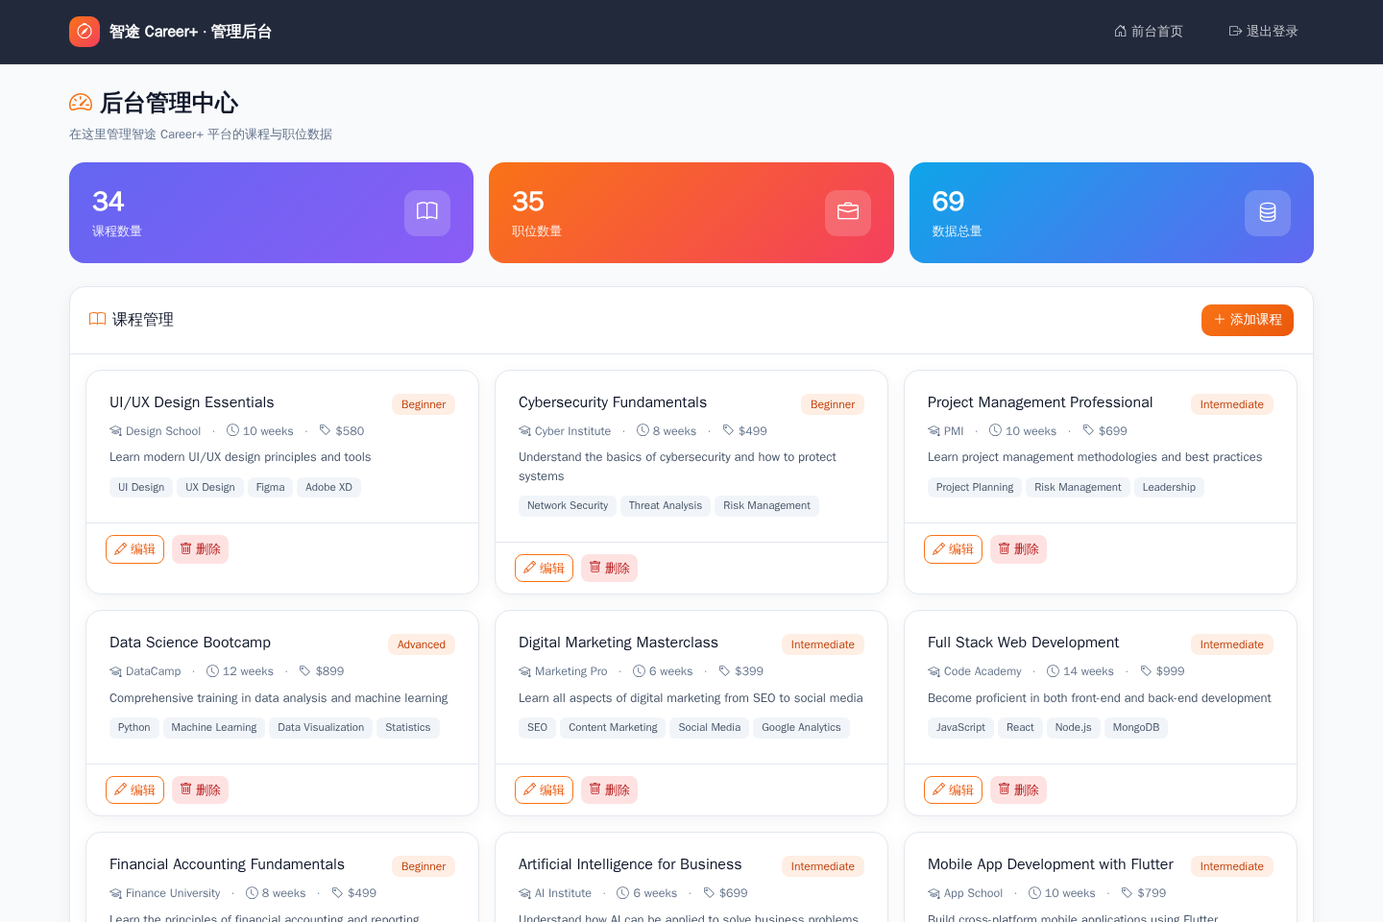
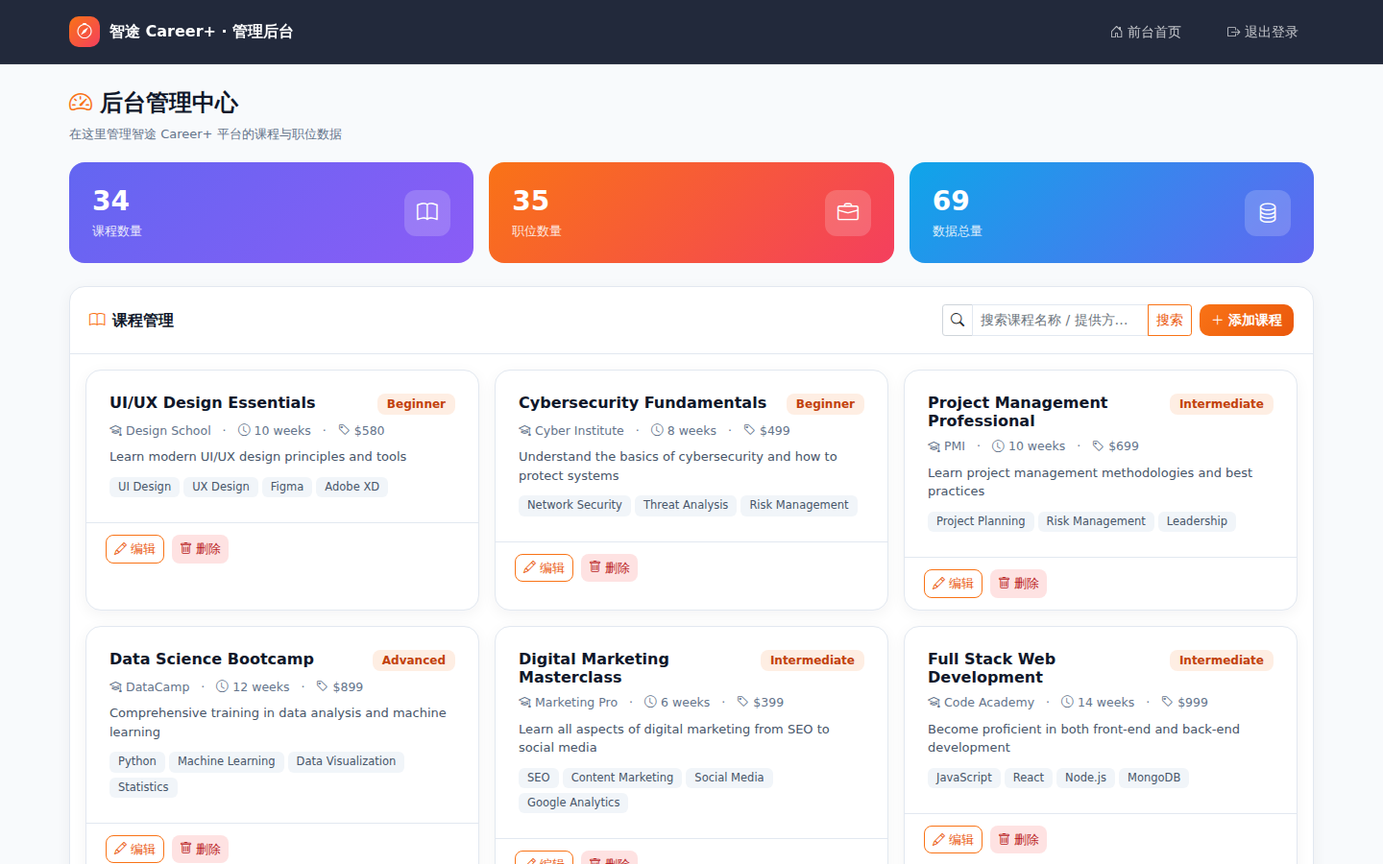
fix: persist user profile in browser sessions; add screenshots + regression test
- Fix hidden session bug: /api/me pre-seeds empty user_data via
  session.setdefault, so analyze_profile's in-place nested mutation never
  set Flask's session.modified -> profile silently lost in browser
  sessions (career_plan/generate returned 400). Fix: re-assign
  session['user_data'] to mark modified.
- Add regression test (test_profile_persists_in_session_after_api_me);
  full suite now 165 passed, 0 failed (record in docs/TEST_REPORT.md)
- README/README.zh-CN: refresh screenshots (login/dashboard/admin),
  add appendix with analysis/interview/plan screenshots, update test
  counts to 165
- gitignore runtime data/interviews.json + data/plans.json

diff --git a/tests/test_app.py b/tests/test_app.py
@@ -234,6 +234,25 @@ class TestAnalysisAndMatching:
         r = user_client.post('/analyze_profile', data={'education': '本科'})
         assert r.status_code == 400
 
+    def test_profile_persists_in_session_after_api_me(self, user_client):
+        """Regression: /api/me pre-seeds an empty user_data into the session;
+        analyze_profile must still persist the profile (re-assign session key so
+        Flask's modified flag is set). Previously the profile silently vanished
+        and /career_plan/generate returned 400 for browser sessions."""
+        # Page load calls /api/me before the user submits the profile form.
+        assert user_client.get('/api/me').status_code == 200
+        r = user_client.post('/analyze_profile', data=PROFILE_FORM)
+        assert r.status_code == 200
+        assert r.get_json()['success'] is True
+        # The profile must now be visible in the session (cookie round-trip).
+        me = user_client.get('/api/me').get_json()
+        assert me['profile'].get('major') == '计算机科学与技术'
+        assert me['profile'].get('education') == '本科'
+        # And downstream features that depend on the profile must work.
+        r2 = user_client.post('/career_plan/generate', data={'career_analysis': ''})
+        assert r2.status_code == 200
+        assert r2.get_json()['success'] is True
+
     def test_search_jobs_with_llm(self, app_client, llm_success):
         app_client.post('/login', json={'phone': '13900000000', 'password': 'user123'})
         r = app_client.post('/search_jobs', data={'keyword': '算法', 'location': ''})

diff --git a/app.py b/app.py
@@ -390,6 +390,10 @@ def analyze_profile():
         profile = current_user_data()
         for field in FORM_FIELDS:
             profile[field] = request.form.get(field, '').strip()
+        # Re-assign to mark the session modified: mutating the nested dict in
+        # place does NOT set Flask's session.modified, so the profile would
+        # never be persisted when user_data was pre-seeded (e.g. by /api/me).
+        session['user_data'] = profile
 
         if not all(profile.get(f) for f in FORM_FIELDS):
             return jsonify({'success': False, 'error': '请完整填写所有个人信息字段'}), 400

diff --git a/docs/TEST_REPORT.md b/docs/TEST_REPORT.md
@@ -15,19 +15,20 @@
 
 | 指标 | 数值 |
 |------|------|
-| 测试用例总数 | **164** |
-| 通过 | **164** |
+| 测试用例总数 | **165** |
+| 通过 | **165** |
 | 失败 | **0** |
 | 错误 | **0** |
 | 跳过 | **0** |
-| 执行时间 | 35.8s |
+| 执行时间 | 69.8s |
 
-## 新增测试明细（本轮新增 36 个用例）
+## 本轮新增测试（相对上一版 128 个基线，共 +37）
 
 | 测试文件 | 数量 | 覆盖内容 |
 |---------|------|---------|
 | `tests/test_mock_interview.py` | 22 | 鉴权、LLM 出题、fallback 出题、题目数量校验与钳制（3-8）、会话持久化、LLM 评分、fallback 评分、空回答/无效会话/无效题号、完整面试总结（平均分/评语/亮点）、完成后拒绝重复作答、历史列表/删除/上限/用户隔离、汇总助手函数 |
 | `tests/test_career_plan.py` | 14 | 鉴权、LLM 生成 5 年三阶段路线图、fallback 生成、无个人信息拒绝、带职业分析生成、latest 查询、历史列表/删除/上限/用户隔离、fallback 引擎未知/已知方向 |
+| `tests/test_app.py`（回归） | 1 | **会话持久化回归**：`/api/me` 预置空 user_data 后，analyze_profile 仍必须持久化 profile（此前该隐藏 bug 导致浏览器会话资料丢失、`/career_plan/generate` 返回 400） |
 
 ## 新增功能（API）
 
@@ -36,7 +37,15 @@
 | AI 模拟面试 | `POST /mock_interview/start` · `POST /mock_interview/answer` · `GET /mock_interview/session` · `GET/DELETE /api/interviews[/<id>]` |
 | 长期职业生涯规划 | `POST /career_plan/generate` · `GET /career_plan/latest` · `GET/DELETE /api/plans[/<id>]` |
 
-## 完整执行记录（pytest -v，164 passed）
+## 修复的隐藏 Bug
+
+`/api/me` 调用 `current_user_data()` 时会通过 `session.setdefault('user_data', {})` 把空 `user_data`
+预写入会话；随后 `analyze_profile` 对嵌套 dict 的就地修改**不会触发 Flask 的 `session.modified`**，
+导致个人资料在浏览器会话中从未真正持久化（curl 直接调用 analyze 不经过 /api/me 故无法复现）。
+修复：analyze_profile 保存后重新赋值 `session['user_data'] = profile` 显式标记 modified。
+（2026-08-12 截图排查时发现并修复，新增回归测试覆盖。）
+
+## 完整执行记录（pytest -v，165 passed）
 
 ```text
 ============================= test session starts ==============================
@@ -46,7 +55,7 @@ rootdir: /home/ubuntu/.openclaw/workspace/noah-space/ZhituCareer
 configfile: pytest.ini
 testpaths: tests
 plugins: anyio-4.14.2
-collecting ... collected 164 items
+collecting ... collected 165 items
 
 tests/test_app.py::TestHealthAndAuth::test_health PASSED                 [  0%]
 tests/test_app.py::TestHealthAndAuth::test_root_redirects_to_login PASSED [  1%]
@@ -70,12 +79,12 @@ tests/test_app.py::TestAdminCourses::test_search PASSED                  [ 11%]
 tests/test_app.py::TestAdminCourses::test_search_no_match PASSED         [ 12%]
 tests/test_app.py::TestAdminCourses::test_invalid_page_defaults PASSED   [ 12%]
 tests/test_app.py::TestAdminCourses::test_add_item PASSED                [ 13%]
-tests/test_app.py::TestAdminCourses::test_update_item PASSED             [ 14%]
+tests/test_app.py::TestAdminCourses::test_update_item PASSED             [ 13%]
 tests/test_app.py::TestAdminCourses::test_delete_item PASSED             [ 14%]
 tests/test_app.py::TestAdminCourses::test_delete_missing_returns_404 PASSED [ 15%]
 tests/test_app.py::TestAdminCourses::test_delete_missing_id PASSED       [ 15%]
 tests/test_app.py::TestAdminCourses::test_post_invalid_payload PASSED    [ 16%]
-tests/test_app.py::TestAdminCourses::test_post_invalid_record PASSED     [ 17%]
+tests/test_app.py::TestAdminCourses::test_post_invalid_record PASSED     [ 16%]
 tests/test_app.py::TestAdminCourses::test_post_valid_normalizes PASSED   [ 17%]
 tests/test_app.py::TestAdminCourses::test_whole_replace PASSED           [ 18%]
 tests/test_app.py::TestAdminJobs::test_list PASSED                       [ 18%]
@@ -84,88 +93,89 @@ tests/test_app.py::TestAdminJobs::test_non_admin_forbidden PASSED        [ 20%]
 tests/test_app.py::TestAnalysisAndMatching::test_analyze_with_llm PASSED [ 20%]
 tests/test_app.py::TestAnalysisAndMatching::test_analyze_falls_back PASSED [ 21%]
 tests/test_app.py::TestAnalysisAndMatching::test_analyze_missing_fields PASSED [ 21%]
-tests/test_app.py::TestAnalysisAndMatching::test_search_jobs_with_llm PASSED [ 22%]
+tests/test_app.py::TestAnalysisAndMatching::test_profile_persists_in_session_after_api_me PASSED [ 22%]
+tests/test_app.py::TestAnalysisAndMatching::test_search_jobs_with_llm PASSED [ 23%]
 tests/test_app.py::TestAnalysisAndMatching::test_search_jobs_fallback PASSED [ 23%]
-tests/test_app.py::TestAnalysisAndMatching::test_search_course_with_llm PASSED [ 23%]
+tests/test_app.py::TestAnalysisAndMatching::test_search_course_with_llm PASSED [ 24%]
 tests/test_app.py::TestAnalysisAndMatching::test_search_course_fallback PASSED [ 24%]
 tests/test_app.py::TestErrors::test_api_404 PASSED                       [ 25%]
-tests/test_app.py::TestErrors::test_page_404_redirects PASSED            [ 25%]
+tests/test_app.py::TestErrors::test_page_404_redirects PASSED            [ 26%]
 tests/test_app.py::TestErrors::test_me_returns_profile PASSED            [ 26%]
-tests/test_app.py::TestErrors::test_session_persists PASSED              [ 26%]
+tests/test_app.py::TestErrors::test_session_persists PASSED              [ 27%]
 tests/test_app.py::TestJsonBodySafety::test_invalid_json_body PASSED     [ 27%]
 tests/test_app.py::TestJsonBodySafety::test_form_body_on_json_endpoint PASSED [ 28%]
-tests/test_app.py::TestStatsOverview::test_stats_require_auth PASSED     [ 28%]
+tests/test_app.py::TestStatsOverview::test_stats_require_auth PASSED     [ 29%]
 tests/test_app.py::TestStatsOverview::test_stats_overview_shape PASSED   [ 29%]
-tests/test_app.py::TestStatsOverview::test_stats_salary_bucketing PASSED [ 29%]
+tests/test_app.py::TestStatsOverview::test_stats_salary_bucketing PASSED [ 30%]
 tests/test_app.py::TestAnalysisHistory::test_analyze_saves_history PASSED [ 30%]
 tests/test_app.py::TestAnalysisHistory::test_history_reversed_order PASSED [ 31%]
-tests/test_app.py::TestAnalysisHistory::test_history_delete PASSED       [ 31%]
+tests/test_app.py::TestAnalysisHistory::test_history_delete PASSED       [ 32%]
 tests/test_app.py::TestAnalysisHistory::test_history_capped PASSED       [ 32%]
-tests/test_app.py::TestAnalysisHistory::test_history_requires_auth PASSED [ 32%]
+tests/test_app.py::TestAnalysisHistory::test_history_requires_auth PASSED [ 33%]
 tests/test_cache.py::test_set_get PASSED                                 [ 33%]
 tests/test_cache.py::test_missing_key PASSED                             [ 34%]
-tests/test_cache.py::test_expiry PASSED                                  [ 34%]
+tests/test_cache.py::test_expiry PASSED                                  [ 35%]
 tests/test_cache.py::test_per_item_ttl PASSED                            [ 35%]
-tests/test_cache.py::test_maxsize_eviction PASSED                        [ 35%]
+tests/test_cache.py::test_maxsize_eviction PASSED                        [ 36%]
 tests/test_cache.py::test_clear PASSED                                   [ 36%]
 tests/test_cache.py::test_falsy_value_kept PASSED                        [ 37%]
-tests/test_career_plan.py::TestPlanAuth::test_generate_requires_auth PASSED [ 37%]
+tests/test_career_plan.py::TestPlanAuth::test_generate_requires_auth PASSED [ 38%]
 tests/test_career_plan.py::TestPlanAuth::test_latest_requires_auth PASSED [ 38%]
 tests/test_career_plan.py::TestPlanAuth::test_history_requires_auth PASSED [ 39%]
-tests/test_career_plan.py::TestPlanGenerate::test_generate_llm PASSED    [ 39%]
+tests/test_career_plan.py::TestPlanGenerate::test_generate_llm PASSED    [ 40%]
 tests/test_career_plan.py::TestPlanGenerate::test_generate_fallback PASSED [ 40%]
-tests/test_career_plan.py::TestPlanGenerate::test_generate_without_profile_rejected PASSED [ 40%]
+tests/test_career_plan.py::TestPlanGenerate::test_generate_without_profile_rejected PASSED [ 41%]
 tests/test_career_plan.py::TestPlanGenerate::test_generate_with_analysis_text PASSED [ 41%]
 tests/test_career_plan.py::TestPlanGenerate::test_generate_saves_and_latest PASSED [ 42%]
-tests/test_career_plan.py::TestPlanGenerate::test_latest_empty PASSED    [ 42%]
+tests/test_career_plan.py::TestPlanGenerate::test_latest_empty PASSED    [ 43%]
 tests/test_career_plan.py::TestPlanHistory::test_list_and_delete PASSED  [ 43%]
-tests/test_career_plan.py::TestPlanHistory::test_history_capped PASSED   [ 43%]
+tests/test_career_plan.py::TestPlanHistory::test_history_capped PASSED   [ 44%]
 tests/test_career_plan.py::TestPlanHistory::test_history_user_isolation PASSED [ 44%]
 tests/test_career_plan.py::TestPlanFallbackEngine::test_unknown_profile_gets_generic_plan PASSED [ 45%]
-tests/test_career_plan.py::TestPlanFallbackEngine::test_domain_profile_gets_matched_plan PASSED [ 45%]
+tests/test_career_plan.py::TestPlanFallbackEngine::test_domain_profile_gets_matched_plan PASSED [ 46%]
 tests/test_data_store.py::TestLoad::test_missing_returns_default PASSED  [ 46%]
-tests/test_data_store.py::TestLoad::test_roundtrip PASSED                [ 46%]
+tests/test_data_store.py::TestLoad::test_roundtrip PASSED                [ 47%]
 tests/test_data_store.py::TestLoad::test_corrupt_returns_default PASSED  [ 47%]
 tests/test_data_store.py::TestLoad::test_empty_file_returns_default PASSED [ 48%]
-tests/test_data_store.py::TestAtomicity::test_no_partial_writes_on_failure PASSED [ 48%]
+tests/test_data_store.py::TestAtomicity::test_no_partial_writes_on_failure PASSED [ 49%]
 tests/test_data_store.py::TestAtomicity::test_concurrent_saves_never_corrupt PASSED [ 49%]
 tests/test_data_store.py::TestValidation::test_valid_course PASSED       [ 50%]
 tests/test_data_store.py::TestValidation::test_valid_job PASSED          [ 50%]
 tests/test_data_store.py::TestValidation::test_missing_required PASSED   [ 51%]
-tests/test_data_store.py::TestValidation::test_blank_required PASSED     [ 51%]
+tests/test_data_store.py::TestValidation::test_blank_required PASSED     [ 52%]
 tests/test_data_store.py::TestValidation::test_wrong_type PASSED         [ 52%]
 tests/test_data_store.py::TestValidation::test_non_dict_item PASSED      [ 53%]
 tests/test_data_store.py::TestValidation::test_not_a_list PASSED         [ 53%]
 tests/test_data_store.py::TestValidation::test_too_many_items PASSED     [ 54%]
-tests/test_data_store.py::TestValidation::test_wrong_list_element_type PASSED [ 54%]
+tests/test_data_store.py::TestValidation::test_wrong_list_element_type PASSED [ 55%]
 tests/test_data_store.py::TestNormalize::test_strips_unknown_fields PASSED [ 55%]
 tests/test_data_store.py::TestNormalize::test_coerces_strings_and_int_list_items PASSED [ 56%]
 tests/test_data_store.py::TestNormalize::test_drops_broken_records PASSED [ 56%]
 tests/test_data_store.py::TestNormalize::test_truncates_long_fields PASSED [ 57%]
-tests/test_fallback.py::TestCareerFallback::test_detects_ai_domain PASSED [ 57%]
+tests/test_fallback.py::TestCareerFallback::test_detects_ai_domain PASSED [ 58%]
 tests/test_fallback.py::TestCareerFallback::test_unknown_profile_returns_default PASSED [ 58%]
 tests/test_fallback.py::TestCareerFallback::test_result_shape PASSED     [ 59%]
-tests/test_fallback.py::TestCareerFallback::test_all_missing_fields_no_crash PASSED [ 59%]
+tests/test_fallback.py::TestCareerFallback::test_all_missing_fields_no_crash PASSED [ 60%]
 tests/test_fallback.py::TestJobFallback::test_keyword_and_location PASSED [ 60%]
-tests/test_fallback.py::TestJobFallback::test_skill_overlap_ranks_higher PASSED [ 60%]
+tests/test_fallback.py::TestJobFallback::test_skill_overlap_ranks_higher PASSED [ 61%]
 tests/test_fallback.py::TestJobFallback::test_empty_input_returns_empty PASSED [ 61%]
 tests/test_fallback.py::TestJobFallback::test_deterministic PASSED       [ 62%]
-tests/test_fallback.py::TestCourseFallback::test_chinese_keyword_matches_english_catalog PASSED [ 62%]
+tests/test_fallback.py::TestCourseFallback::test_chinese_keyword_matches_english_catalog PASSED [ 63%]
 tests/test_fallback.py::TestCourseFallback::test_career_analysis_boost PASSED [ 63%]
 tests/test_fallback.py::TestCourseFallback::test_empty_results PASSED    [ 64%]
 tests/test_fallback.py::TestCourseFallback::test_deterministic PASSED    [ 64%]
 tests/test_large_data.py::TestLargeJobMatching::test_fallback_fast_and_accurate PASSED [ 65%]
-tests/test_large_data.py::TestLargeJobMatching::test_llm_only_sees_bounded_candidates PASSED [ 65%]
+tests/test_large_data.py::TestLargeJobMatching::test_llm_only_sees_bounded_candidates PASSED [ 66%]
 tests/test_large_data.py::TestLargeCourseMatching::test_fallback_fast_and_accurate PASSED [ 66%]
 tests/test_large_data.py::TestLargeCourseMatching::test_llm_only_sees_bounded_candidates PASSED [ 67%]
 tests/test_large_data.py::TestRetrievalIndexScale::test_index_time_for_5000_jobs PASSED [ 67%]
 tests/test_llm_client.py::TestStripCodeFence::test_plain PASSED          [ 68%]
-tests/test_llm_client.py::TestStripCodeFence::test_json_fence PASSED     [ 68%]
+tests/test_llm_client.py::TestStripCodeFence::test_json_fence PASSED     [ 69%]
 tests/test_llm_client.py::TestStripCodeFence::test_generic_fence PASSED  [ 69%]
 tests/test_llm_client.py::TestStripCodeFence::test_fence_with_prose PASSED [ 70%]
 tests/test_llm_client.py::TestExtractJson::test_prose_wrapped PASSED     [ 70%]
 tests/test_llm_client.py::TestExtractJson::test_array_wrapped PASSED     [ 71%]
-tests/test_llm_client.py::TestExtractJson::test_nested_braces PASSED     [ 71%]
+tests/test_llm_client.py::TestExtractJson::test_nested_braces PASSED     [ 72%]
 tests/test_llm_client.py::TestExtractJson::test_string_containing_braces PASSED [ 72%]
 tests/test_llm_client.py::TestExtractJson::test_no_json PASSED           [ 73%]
 tests/test_llm_client.py::TestExtractJson::test_empty PASSED             [ 73%]
@@ -178,17 +188,17 @@ tests/test_llm_client.py::TestChatRetry::test_retry_then_success PASSED  [ 77%]
 tests/test_llm_client.py::TestChatRetry::test_exhausts_retries PASSED    [ 78%]
 tests/test_llm_client.py::TestChatRetry::test_empty_response_raises PASSED [ 78%]
 tests/test_mock_interview.py::TestInterviewAuth::test_start_requires_auth PASSED [ 79%]
-tests/test_mock_interview.py::TestInterviewAuth::test_answer_requires_auth PASSED [ 79%]
+tests/test_mock_interview.py::TestInterviewAuth::test_answer_requires_auth PASSED [ 80%]
 tests/test_mock_interview.py::TestInterviewAuth::test_session_requires_auth PASSED [ 80%]
 tests/test_mock_interview.py::TestInterviewAuth::test_history_requires_auth PASSED [ 81%]
 tests/test_mock_interview.py::TestInterviewStart::test_start_llm PASSED  [ 81%]
 tests/test_mock_interview.py::TestInterviewStart::test_start_fallback PASSED [ 82%]
-tests/test_mock_interview.py::TestInterviewStart::test_start_missing_target PASSED [ 82%]
+tests/test_mock_interview.py::TestInterviewStart::test_start_missing_target PASSED [ 83%]
 tests/test_mock_interview.py::TestInterviewStart::test_start_custom_count PASSED [ 83%]
 tests/test_mock_interview.py::TestInterviewStart::test_start_clamps_count_high PASSED [ 84%]
 tests/test_mock_interview.py::TestInterviewStart::test_start_clamps_count_low PASSED [ 84%]
 tests/test_mock_interview.py::TestInterviewStart::test_start_saves_session PASSED [ 85%]
-tests/test_mock_interview.py::TestInterviewAnswer::test_answer_llm PASSED [ 85%]
+tests/test_mock_interview.py::TestInterviewAnswer::test_answer_llm PASSED [ 86%]
 tests/test_mock_interview.py::TestInterviewAnswer::test_answer_fallback PASSED [ 86%]
 tests/test_mock_interview.py::TestInterviewAnswer::test_answer_empty_rejected PASSED [ 87%]
 tests/test_mock_interview.py::TestInterviewAnswer::test_answer_unknown_session PASSED [ 87%]
@@ -213,5 +223,5 @@ tests/test_retrieval.py::TestRetrieverBasics::test_candidate_docs PASSED [ 98%]
 tests/test_retrieval.py::TestRetrieverBasics::test_reindex_updates PASSED [ 99%]
 tests/test_retrieval.py::TestRetrieverScale::test_large_catalog PASSED   [100%]
 
-============================= 164 passed in 35.78s =============================
+======================== 165 passed in 69.78s (0:01:09) ========================
 ```

diff --git a/README.zh-CN.md b/README.zh-CN.md
@@ -13,7 +13,7 @@
 ![Playwright](https://img.shields.io/badge/Playwright-Automation-2EAD33?style=flat-square&logo=playwright&logoColor=white)
 ![License](https://img.shields.io/badge/License-MIT-green.svg?style=flat-square)
 ![PRs Welcome](https://img.shields.io/badge/PRs-welcome-brightgreen.svg?style=flat-square)
-![Tests](https://img.shields.io/badge/tests-164%20passed-brightgreen?style=flat-square)
+![Tests](https://img.shields.io/badge/tests-165%20passed-brightgreen?style=flat-square)
 ![Docker](https://img.shields.io/badge/Docker-ready-2496ED?style=flat-square&logo=docker&logoColor=white)
 
 <br>
@@ -68,7 +68,7 @@ ZhiTuCareer+ 按真实产品的标准打造，而非玩具 demo：
 
 - **生产级架构**：多 Agent LLM 流水线 + **混合检索引擎**（倒排索引 + TF-IDF），在 LLM 精排前把数千条记录预筛为有界候选集，5000+ 职位依然快速
 - **永不崩溃**：LLM 不可用时，确定性**规则兜底引擎**接管，职业分析、职位匹配、课程推荐、模拟面试、职业规划全部离线可用
-- **工程化硬实力**：带文件锁的原子 JSON 存储（写入永不损坏）、TTL 缓存、限流鉴权、健壮 LLM JSON 解析、**164 个自动化测试**（含 5000 条规模基准）全绿
+- **工程化硬实力**：带文件锁的原子 JSON 存储（写入永不损坏）、TTL 缓存、限流鉴权、健壮 LLM JSON 解析、**165 个自动化测试**（含 5000 条规模基准）全绿
 - **产品级观感**：ECharts 市场数据洞察、分析历史、可搜索管理后台、精致的 Bootstrap 仪表盘
 - **零门槛体验**：内置演示账号 + `docker compose up`，数秒内跑起来
 
@@ -236,7 +236,7 @@ ZhituCareer/
 │   ├── login.html          # 登录 / 注册页
 │   ├── index.html          # 用户仪表盘（ECharts 洞察 + 历史记录）
 │   └── admin.html          # 管理后台
-├── tests/                  # 164 个 pytest 用例（含 5000 条规模测试）
+├── tests/                  # 165 个 pytest 用例（含 5000 条规模测试）
 ├── Dockerfile              # 一条命令构建容器
 ├── docker-compose.yml      # `docker compose up` 一键启动
 └── requirements.txt
@@ -253,7 +253,7 @@ ZhituCareer/
 - [x] AI 模拟面试（出题 + 逐题评分 + 总结）
 - [x] 长期职业生涯规划（5 年三阶段路线图）
 - [x] Docker 一键部署
-- [x] 164 个自动化测试
+- [x] 165 个自动化测试
 - [ ] 迁移 SQLite 以支持多 worker 并发写入
 - [ ] 简历（PDF / Word）解析
 - [ ] 求职进度追踪（收藏 / 状态管理）
@@ -271,7 +271,7 @@ ZhituCareer/
 | 检索 | 倒排索引 + TF-IDF 混合检索（中文 bigram 分词、中英文别名扩展） |
 | 前端 | Bootstrap 5 · Bootstrap Icons · 原生 ES6 |
 | 数据存储 | 原子 JSON 文件（可无缝迁移至 SQLite / MySQL，见 [data_base 分支](https://github.com/NoahIsARider/ZhituCareer/tree/data_base)） |
-| 测试 | pytest · 164 个用例 · 5000 条规模基准（见 [docs/TEST_REPORT.md](docs/TEST_REPORT.md)） |
+| 测试 | pytest · 165 个用例 · 5000 条规模基准（见 [docs/TEST_REPORT.md](docs/TEST_REPORT.md)） |
 
 ---
 
@@ -305,3 +305,25 @@ ZhituCareer/
 ## 📄 License
 
 本项目基于 **MIT License** 开源，详见 [LICENSE](LICENSE) 文件。
+
+---
+
+## 📎 附录：功能截图
+
+新增全链路职业功能的效果截图。
+
+### 职业分析结果
+
+![职业分析结果](docs/screenshots/dashboard-analysis.png)
+
+### AI 模拟面试 — 面试题目
+
+![模拟面试题目](docs/screenshots/interview-questions.png)
+
+### AI 模拟面试 — 回答评分
+
+![模拟面试评分](docs/screenshots/interview-scoring.png)
+
+### 长期职业生涯规划路线图
+
+![职业规划路线图](docs/screenshots/career-plan.png)

diff --git a/README.md b/README.md
@@ -12,7 +12,7 @@ A one-stop career analysis platform built on **Flask + multi-agent collaboration
 ![Playwright](https://img.shields.io/badge/Playwright-Automation-2EAD33?style=flat-square&logo=playwright&logoColor=white)
 ![License](https://img.shields.io/badge/License-MIT-green.svg?style=flat-square)
 ![PRs Welcome](https://img.shields.io/badge/PRs-welcome-brightgreen.svg?style=flat-square)
-![Tests](https://img.shields.io/badge/tests-164%20passed-brightgreen?style=flat-square)
+![Tests](https://img.shields.io/badge/tests-165%20passed-brightgreen?style=flat-square)
 ![Docker](https://img.shields.io/badge/Docker-ready-2496ED?style=flat-square&logo=docker&logoColor=white)
 
 <br>
@@ -207,7 +207,7 @@ ZhituCareer/
 │   ├── login.html          # Login / register page
 │   ├── index.html          # User dashboard (ECharts insights + history)
 │   └── admin.html          # Admin panel
-├── tests/                  # 164 pytest cases incl. 5,000-record scale tests
+├── tests/                  # 165 pytest cases incl. 5,000-record scale tests
 ├── Dockerfile              # One-command container build
 ├── docker-compose.yml      # `docker compose up` → running platform
 └── requirements.txt
@@ -224,7 +224,7 @@ ZhituCareer/
 - [x] AI mock interview (question generation + answer scoring + session summary)
 - [x] Long-term career planning (5-year, three-phase roadmap)
 - [x] Docker one-command deployment
-- [x] 164 automated tests
+- [x] 165 automated tests
 - [ ] SQLite migration for concurrent multi-worker writes
 - [ ] Resume (PDF/Word) parsing
 - [ ] Job application tracking (favorites / status)
@@ -242,7 +242,7 @@ ZhituCareer/
 | Retrieval | Inverted index + TF-IDF hybrid search (Chinese bigram tokenization, English↔Chinese aliases) |
 | Frontend | Bootstrap 5 · Bootstrap Icons · vanilla ES6 |
 | Data Storage | Atomic JSON files (seamlessly migratable to SQLite / MySQL, see the [data_base branch](https://github.com/NoahIsARider/ZhituCareer/tree/data_base)) |
-| Testing | pytest · 164 cases · 5,000-record scale benchmarks (see [docs/TEST_REPORT.md](docs/TEST_REPORT.md)) |
+| Testing | pytest · 165 cases · 5,000-record scale benchmarks (see [docs/TEST_REPORT.md](docs/TEST_REPORT.md)) |
 
 ---
 
@@ -276,3 +276,25 @@ Any form of contribution is welcome!
 ## 📄 License
 
 This project is open-sourced under the **MIT License**; see the [LICENSE](LICENSE) file for details.
+
+---
+
+## 📎 Appendix: Feature Screenshots
+
+More screenshots of the new full-chain career features.
+
+### Career Analysis Result
+
+![Career analysis result](docs/screenshots/dashboard-analysis.png)
+
+### AI Mock Interview — Questions
+
+![Mock interview questions](docs/screenshots/interview-questions.png)
+
+### AI Mock Interview — Answer Scoring
+
+![Mock interview scoring](docs/screenshots/interview-scoring.png)
+
+### Long-term Career Planning Roadmap
+
+![Career planning roadmap](docs/screenshots/career-plan.png)
